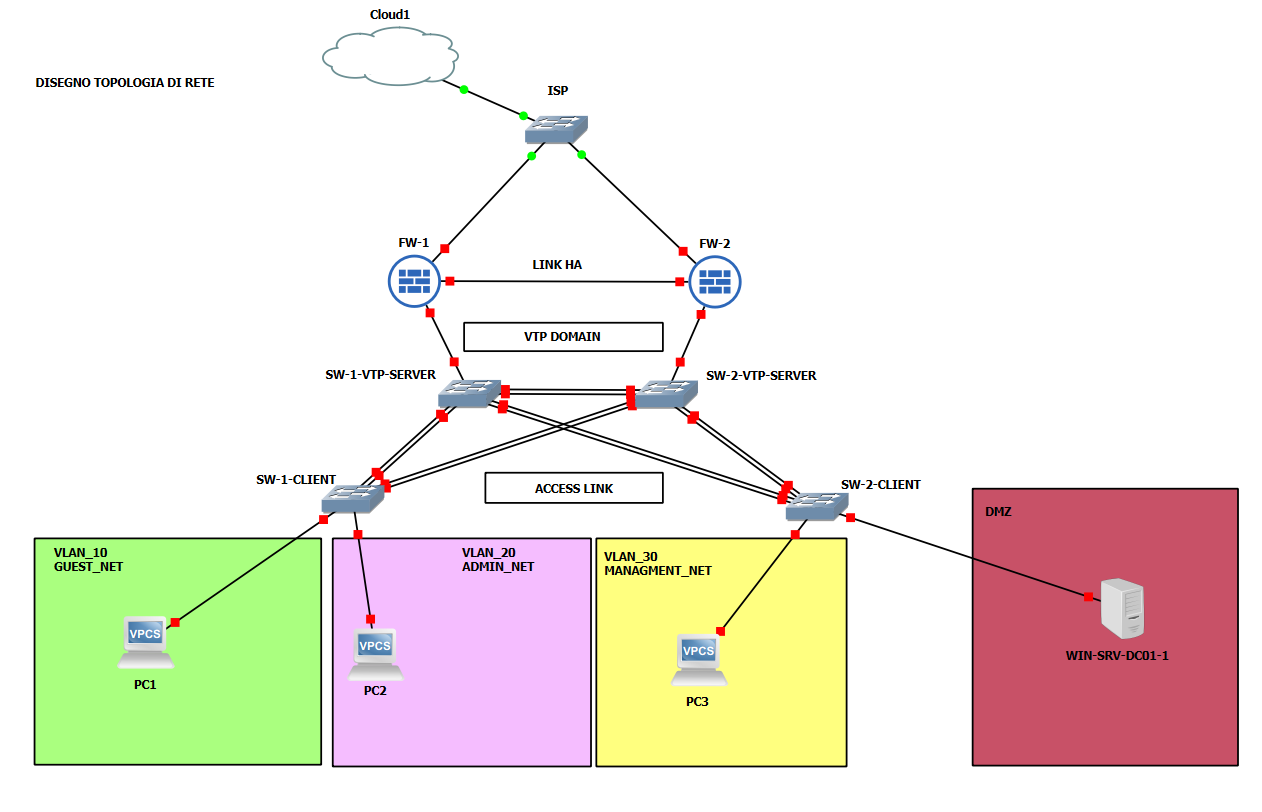
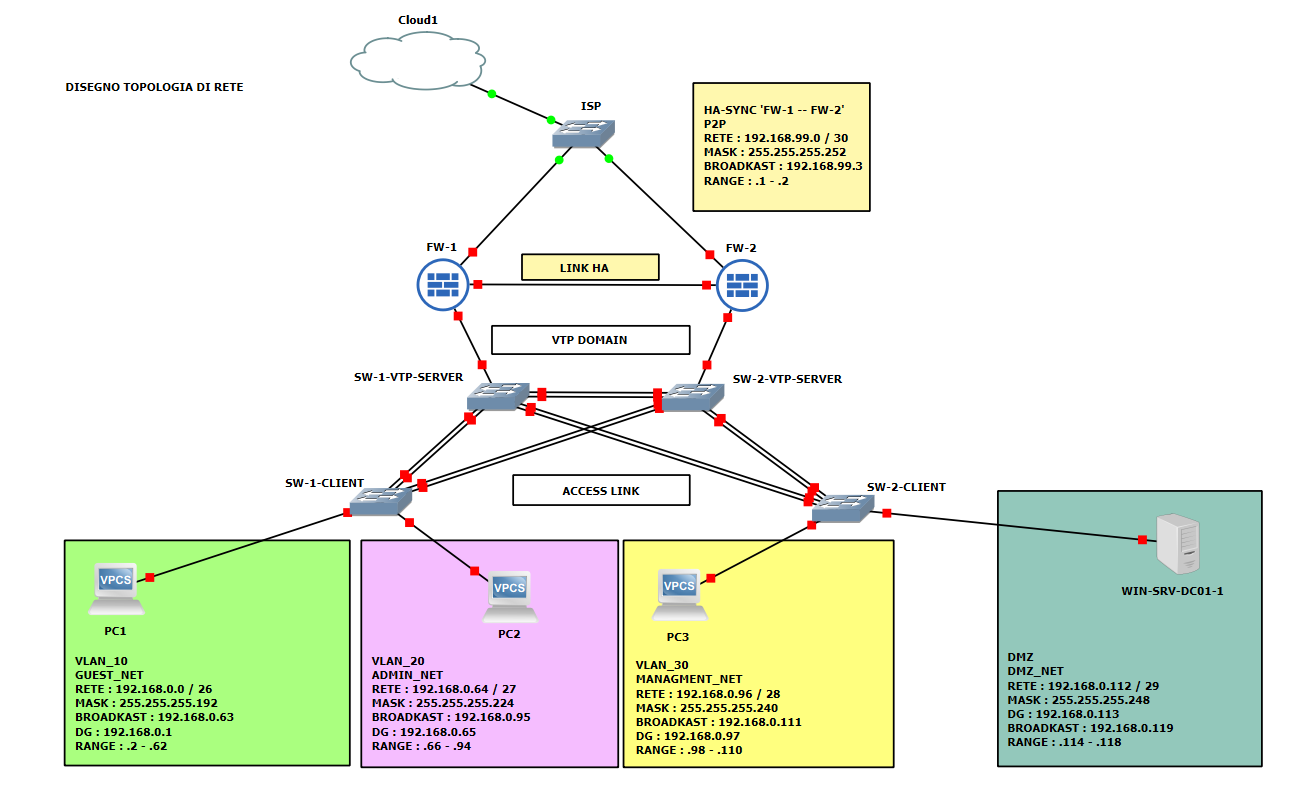
[UPD] Topology image, ok VLSM, ok Assets Inventory

diff --git a/index.html b/index.html
@@ -52,19 +52,53 @@
         </div>
       </details>
 
-      <details class="obj-item status-todo">
+      <details class="obj-item status-done">
         <summary><span class="obj-text">0.2 — Piano di indirizzamento IP con metodologia VLSM</span></summary>
-        <div class="obj-content">
-          <p class="obj-caption">Da compilare: tabella VLSM, screenshot calcolo.</p>
-        </div>
+          <div class="obj-content">
+            <p class="obj-caption">Blocco base: <code>192.168.0.0/24</code> + link HA dedicato fuori blocco.</p>
+            <div class="table-wrap">
+              <table>
+                <thead>
+                  <tr><th>Segmento</th><th>VLAN</th><th>Subnet</th><th>Maschera</th><th>Gateway</th><th>Range host</th><th>Broadcast</th><th>Indirizzi assegnabili</th></tr>
+                </thead>
+                <tbody>
+                  <tr class="vlan-guest"><td>GUEST_NET</td><td>10</td><td>192.168.0.0/26</td><td>255.255.255.192</td><td>192.168.0.1</td><td>.2 – .62</td><td>192.168.0.63</td><td>62</td></tr>
+                  <tr class="vlan-admin"><td>ADMIN_NET</td><td>20</td><td>192.168.0.64/27</td><td>255.255.255.224</td><td>192.168.0.65</td><td>.66 – .94</td><td>192.168.0.95</td><td>30</td></tr>
+                  <tr class="vlan-mgmt"><td>MANAGEMENT_NET</td><td>30</td><td>192.168.0.96/28</td><td>255.255.255.240</td><td>192.168.0.97</td><td>.98 – .110</td><td>192.168.0.111</td><td>14</td></tr>
+                  <tr class="vlan-dmz"><td>DMZ (WIN-SRV-DC01)</td><td>—</td><td>192.168.0.112/29</td><td>255.255.255.248</td><td>192.168.0.113</td><td>.114 – .118</td><td>192.168.0.119</td><td>6</td></tr>
+                  <tr class="vlan-ha"><td>HA-SYNC (FW-1↔FW-2)</td><td>—</td><td>192.168.99.0/30</td><td>255.255.255.252</td><td>— (P2P)</td><td>.1 – .2</td><td>192.168.99.3</td><td>2</td></tr>
+                </tbody>
+              </table>
+            </div>
+            <p class="obj-caption">Spazio libero per crescita futura: 192.168.0.120 – 192.168.0.255</p>
+          </div>
       </details>
 
-      <details class="obj-item status-todo">
+      <details class="obj-item status-done">
         <summary><span class="obj-text">0.3 — Asset inventory completo</span></summary>
         <div class="obj-content">
-          <p class="obj-caption">Da compilare: tabella inventory, output <code>show version</code> / <code>get system status</code>.</p>
+          <div class="table-wrap">
+            <table>
+              <thead>
+                <tr><th>#</th><th>Nodo</th><th>Ruolo</th><th>Piattaforma</th><th>Versione</th><th>Identificativo</th><th>Risorse</th></tr>
+              </thead>
+              <tbody>
+                <tr><td>1</td><td>FW-1</td><td>Firewall primario HA</td><td>FortiGate-VM64-KVM</td><td>v7.6.7 build3704</td><td>SN: FGVMEVGT9RJSLZ87</td><td>1vCPU/2GB</td></tr>
+                <tr><td>2</td><td>FW-2</td><td>Firewall secondario HA</td><td>FortiGate-VM64-KVM</td><td>v7.6.7 build3704</td><td>SN: FGVMEV_4Z9IEEQ52</td><td>1vCPU/2GB</td></tr>
+                <tr><td>3</td><td>ISP</td><td>Switch upstream</td><td>GNS3 nativo</td><td>—</td><td>—</td><td>trascurabile</td></tr>
+                <tr><td>4</td><td>SW-1-VTP-SERVER</td><td>Core/Distribution</td><td>Cisco IOU L2</td><td>IOS 15.1(20130726)</td><td>ipbasek9-15.1g.bin</td><td>512MB</td></tr>
+                <tr><td>5</td><td>SW-2-VTP-SERVER</td><td>Core/Distribution</td><td>Cisco IOU L2</td><td>IOS 15.1(20130726)</td><td>ipbasek9-15.1g.bin</td><td>512MB</td></tr>
+                <tr><td>6</td><td>SW-1-CLIENT</td><td>Access</td><td>Cisco IOU L2</td><td>IOS 15.1(20130726)</td><td>Board ID: 2048003</td><td>512MB</td></tr>
+                <tr><td>7</td><td>SW-2-CLIENT</td><td>Access</td><td>Cisco IOU L2</td><td>IOS 15.1(20130726)</td><td>ipbasek9-15.1g.bin</td><td>512MB</td></tr>
+                <tr class="vlan-dmz"><td>8</td><td>WIN-SRV-DC01</td><td>Domain Controller</td><td>Windows Server 2022</td><td>Standard Eval, build 20348.587</td><td>Key: W8JDY</td><td>4GB/2vCPU</td></tr>
+                <tr class="vlan-guest"><td>9</td><td>PC1</td><td>Endpoint provvisorio</td><td>VPCS</td><td>—</td><td>→ futuro WIN11-CLIENT-01</td><td>trascurabile</td></tr>
+                <tr class="vlan-admin"><td>10</td><td>PC2</td><td>Endpoint provvisorio</td><td>VPCS</td><td>—</td><td>→ futuro WIN11-CLIENT-02</td><td>trascurabile</td></tr>
+                <tr class="vlan-mgmt"><td>11</td><td>PC3</td><td>Endpoint provvisorio</td><td>VPCS</td><td>—</td><td>→ futuro WIN11-CLIENT-03</td><td>trascurabile</td></tr>
+              </tbody>
+            </table>
+          </div>
         </div>
-      </details>
+</details>
 
     </div>
 

diff --git a/css/style.css b/css/style.css
@@ -231,3 +231,46 @@ footer {
 }
 
 footer a { color: var(--accent); }
+
+
+/* Tabelle */
+/* Tabelle */
+table {
+  width: 100%;
+  border-collapse: collapse;
+  margin: 0.5rem 0 1rem;
+  font-size: 0.8rem;
+  table-layout: fixed;
+}
+
+th, td {
+  padding: 0.45rem 0.5rem;
+  border: 1px solid var(--border);
+  text-align: left;
+  word-wrap: break-word;
+  overflow-wrap: break-word;
+}
+
+th {
+  background: var(--bg);
+  color: var(--accent);
+  font-weight: 600;
+}
+
+tr:hover td {
+  background: rgba(255,255,255,0.03);
+}
+
+:root {
+  --guest: #7ee787;
+  --admin: #d2a8ff;
+  --mgmt: #f2cc60;
+  --dmz: #ff7b72;
+  --ha: #79c0ff;
+}
+
+.vlan-guest { border-left: 3px solid var(--guest); }
+.vlan-admin { border-left: 3px solid var(--admin); }
+.vlan-mgmt  { border-left: 3px solid var(--mgmt); }
+.vlan-dmz   { border-left: 3px solid var(--dmz); }
+.vlan-ha    { border-left: 3px solid var(--ha); }